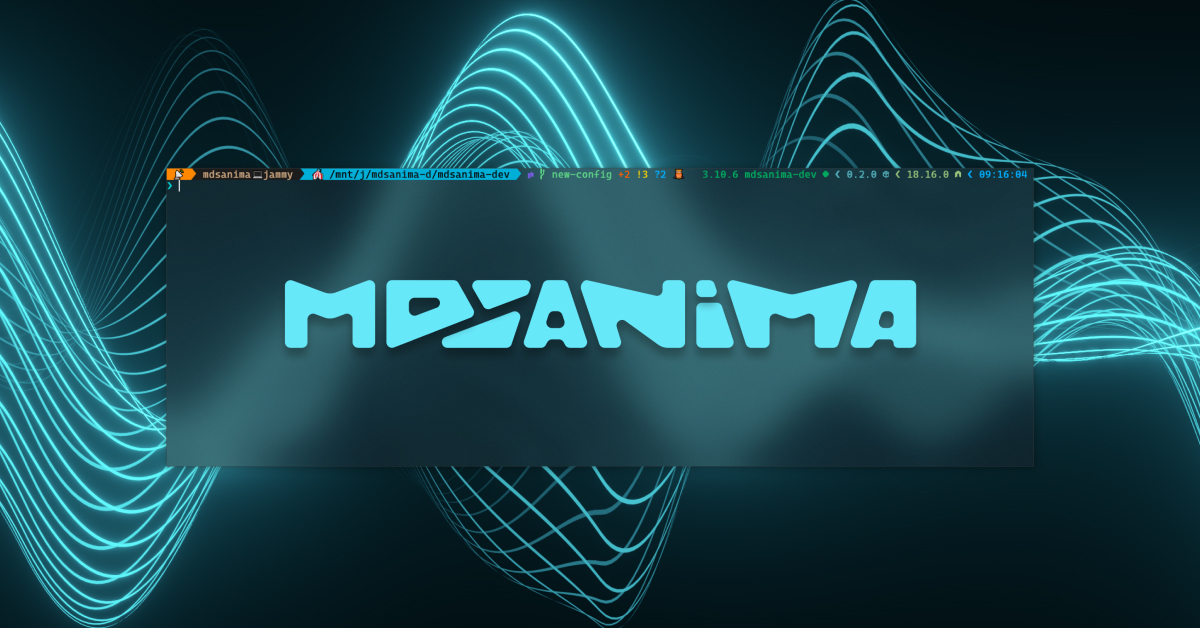
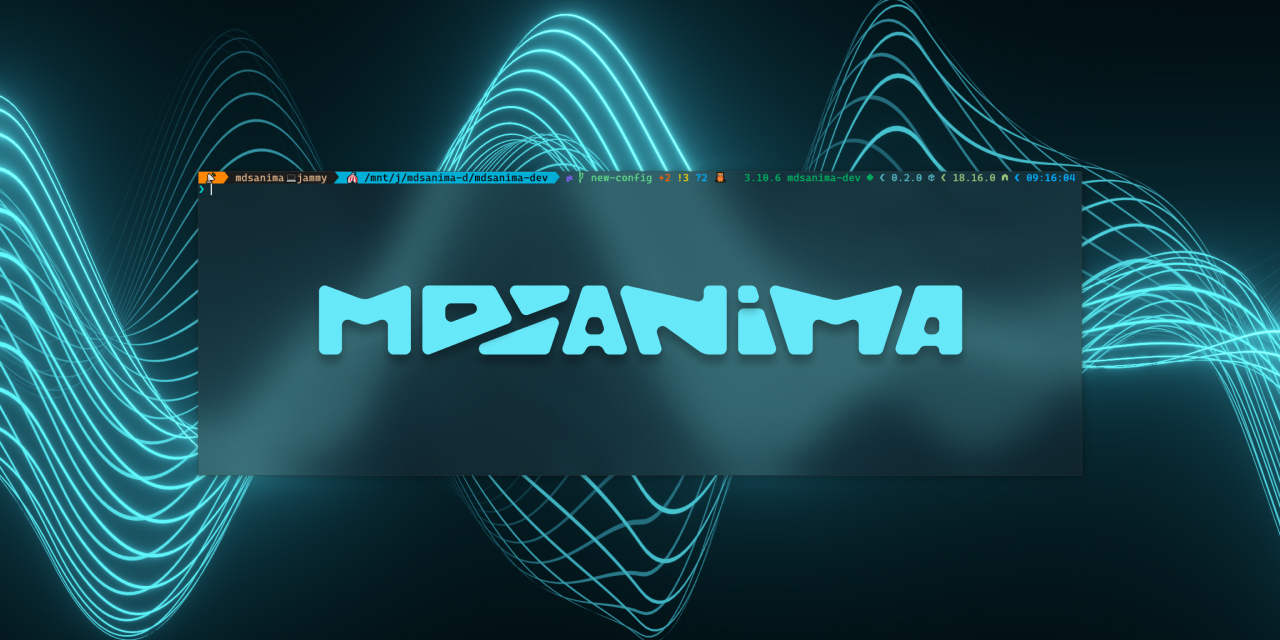
chore: fix link image and new resolution for og images

diff --git a/docs/getting-started.md b/docs/getting-started.md
@@ -3,7 +3,7 @@
 Instructions how to install the _Python_ package [mdsanima-dev {octicon}`link-external;0.8em`][pypi-mdsanima-dev] on
 your system.
 
-<img src="../../_static/images/mdsanima_dev_python_package.webp">
+<img src="../_static/images/mdsanima_dev_python_package.webp">
 
 ## INSTALLATION `OPTIONS`
 
